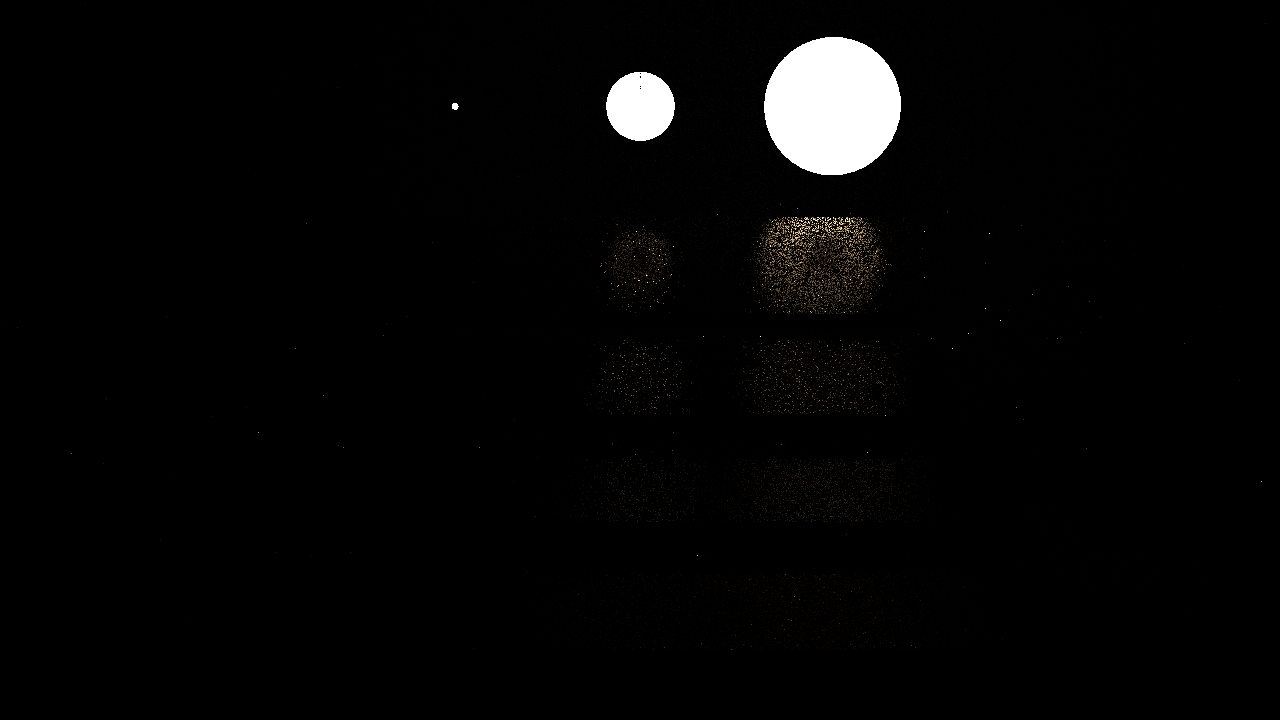
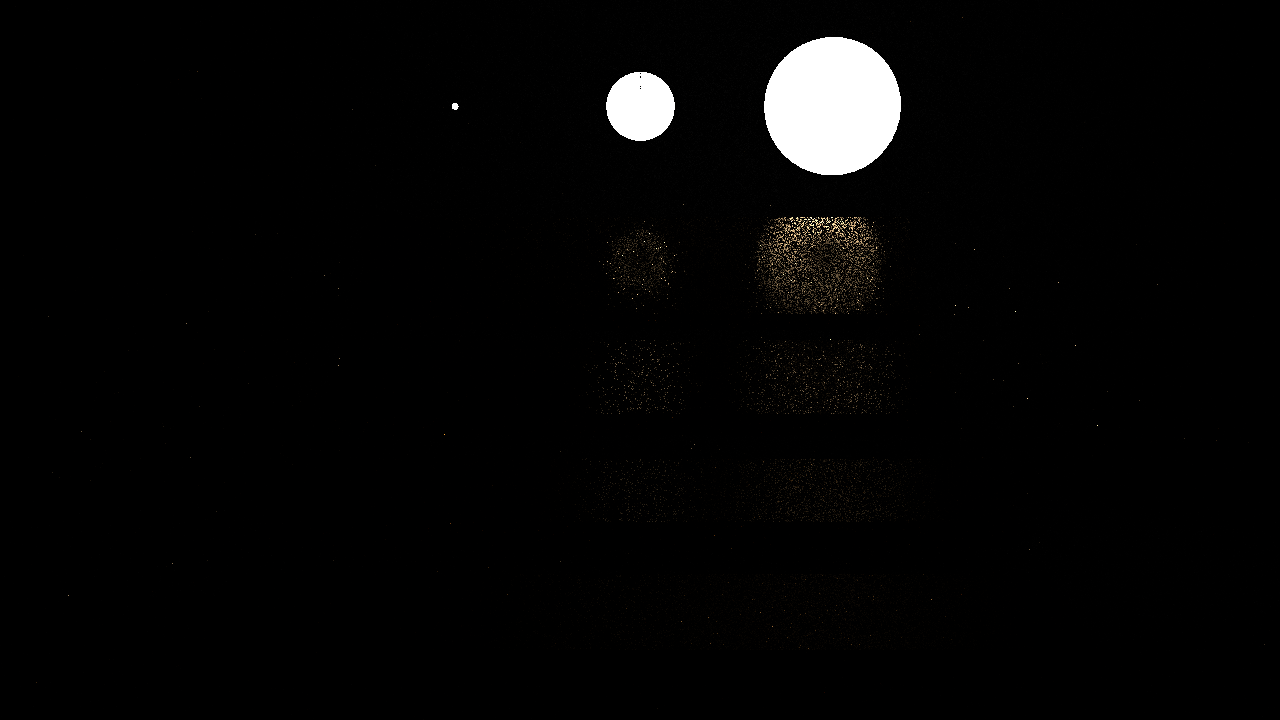
temp

diff --git a/cg-final/scene/material.hpp b/cg-final/scene/material.hpp
@@ -32,7 +32,7 @@ struct Phong_Material: Material
 		an = pow(an, shininess);
 		float ad = glm::dot(dir_to_light, n);
 		if (ad < 0) ad = 0;
-		return diffuse * light_color * ad / 3.1415926f + specular * light_color * an * (shininess + 1) / 2.f / 3.1415926f;
+		return diffuse * light_color * ad / 3.1415926f + specular * light_color * an * (shininess + 2) / 2.f / 3.1415926f;
 	}
 };
 
